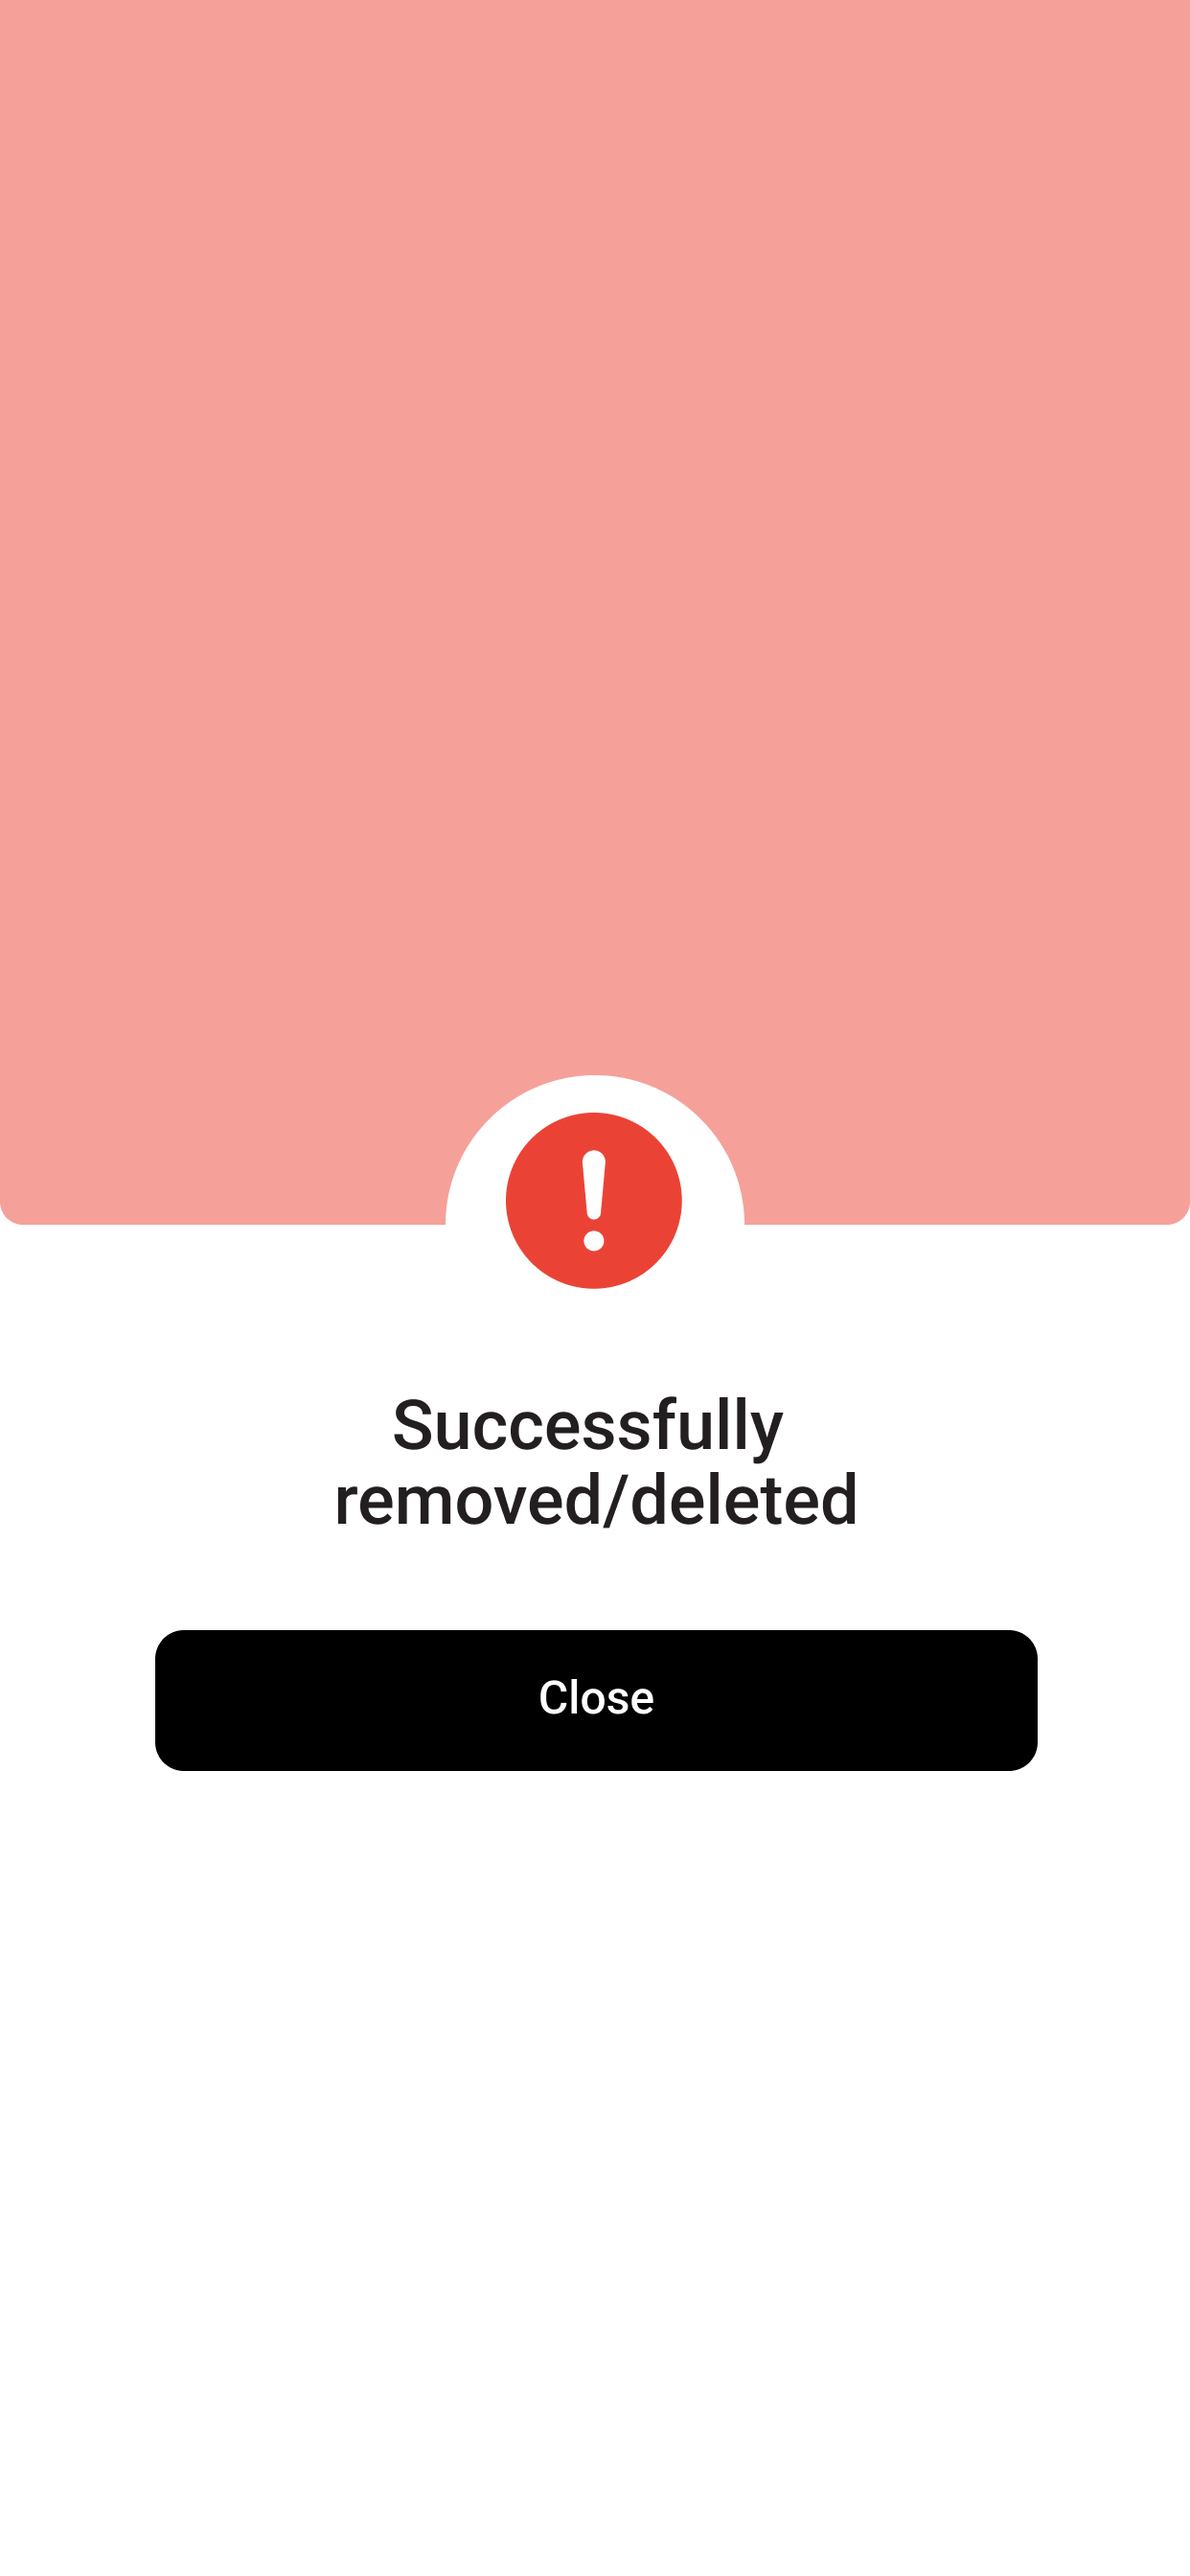
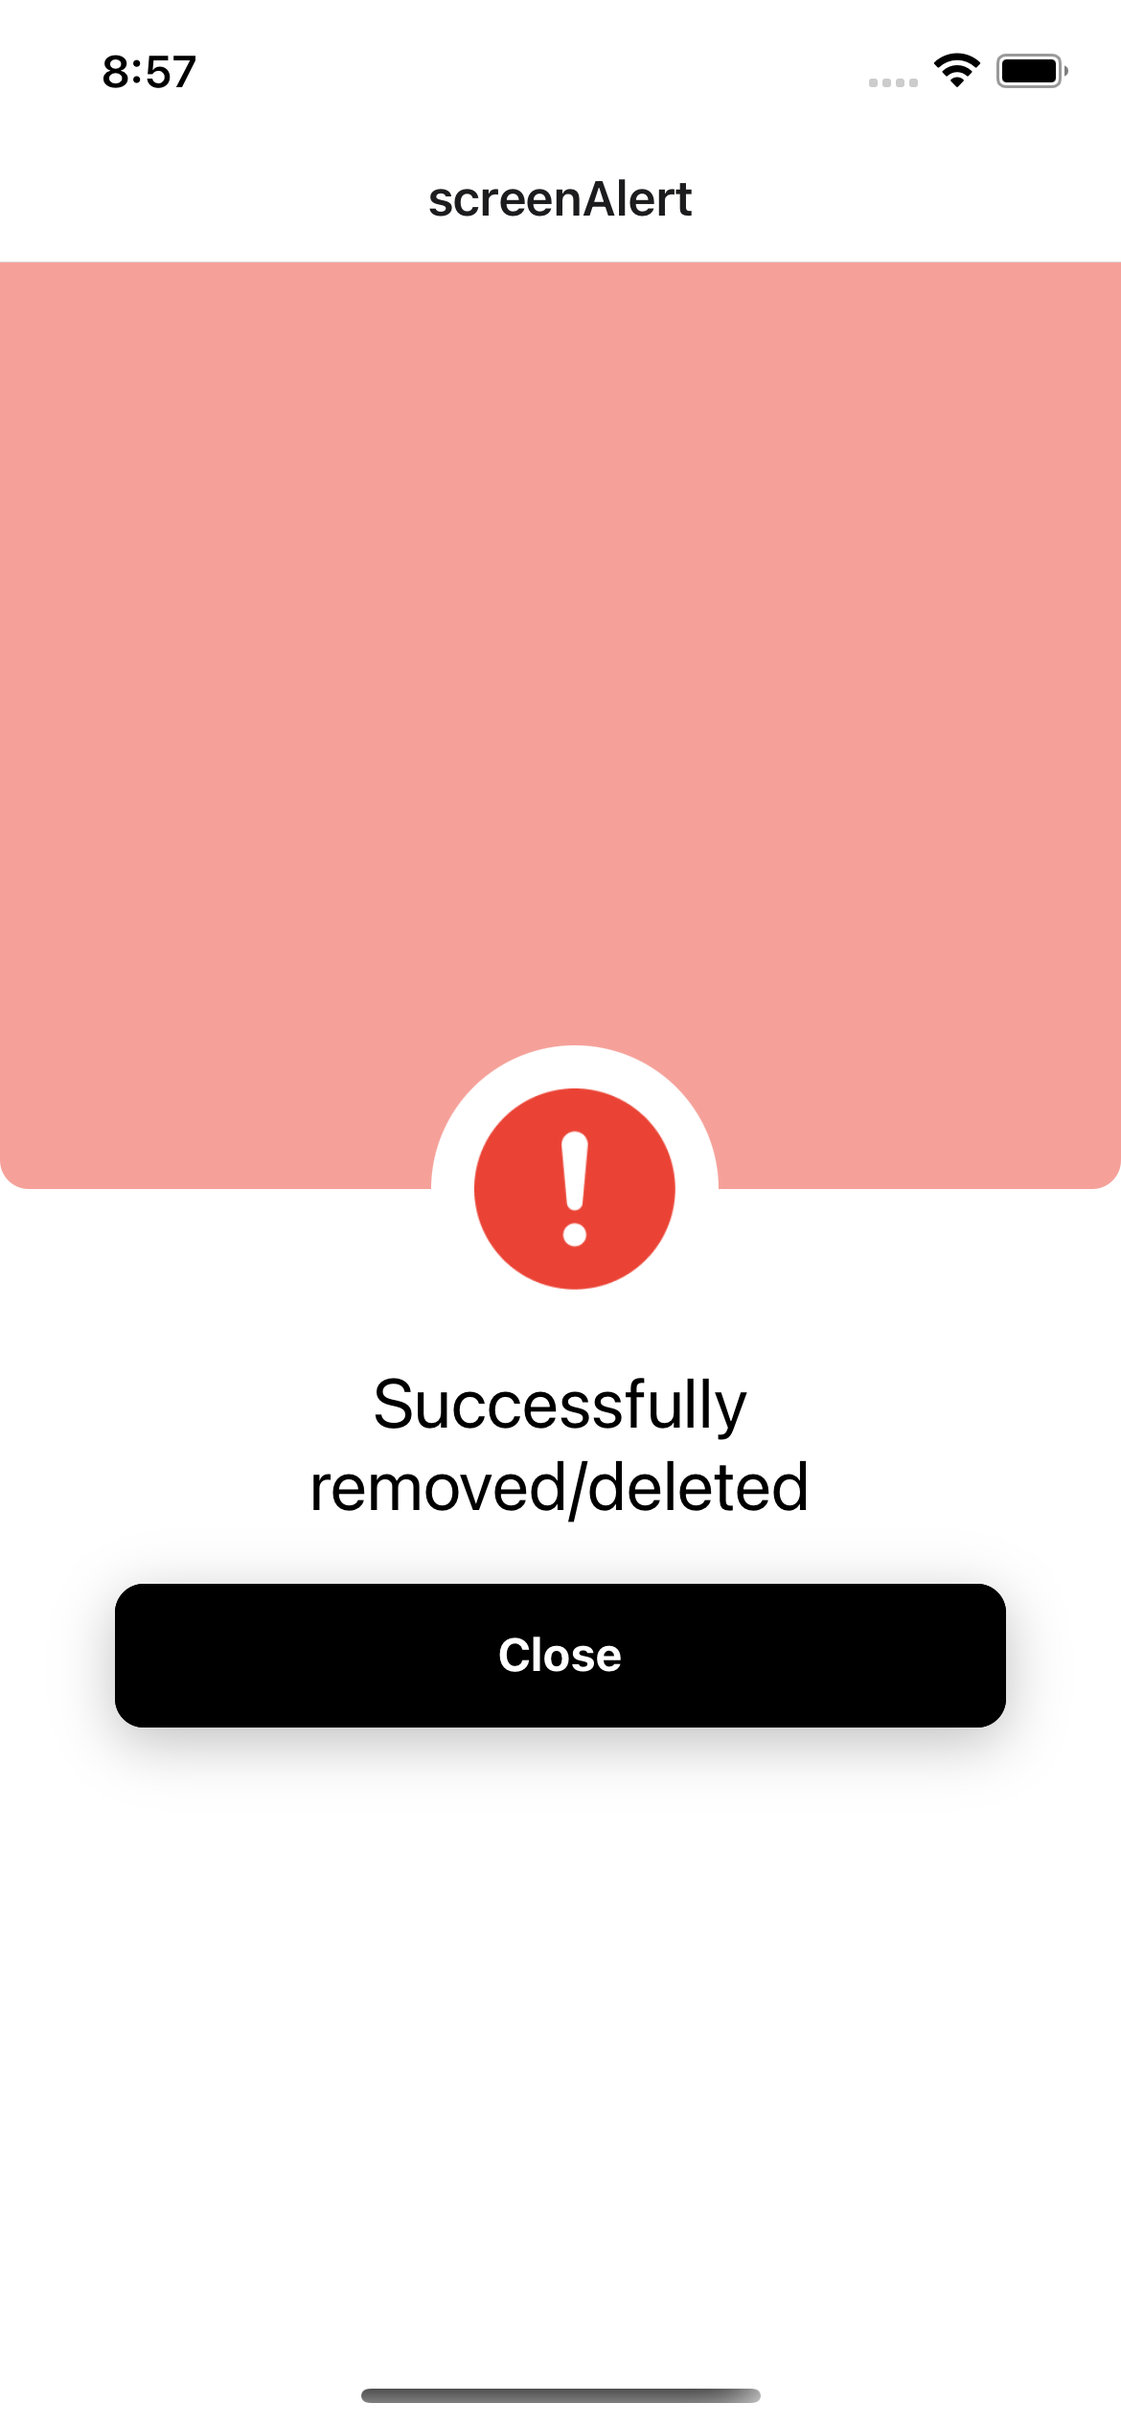
alert screen added

Changed region(s): [[0.0, 0.4056, 1.0, 0.7488], [0.0, 0.0, 1.0, 0.1248], [0.3385, 0.9672, 0.6769, 0.9984]]

diff --git a/screens/screen-alert/index.js b/screens/screen-alert/index.js
@@ -1,14 +1,21 @@
 import React from "react";
-import {
-  Text,
-  View,
-  StyleSheet
-} from "react-native";
+import { Text, View, StyleSheet, Image, Pressable } from "react-native";
 
 const Alert = () => {
   return (
     <View style={styles.container}>
-      <Text style={styles.heading}>Alert</Text>
+      <View style={styles.upper}>
+        <View style={styles.iconContainer}>
+          <Image
+            source={require("./assets/alertIcon.png")}
+            style={styles.icon}
+          />
+        </View>
+      </View>
+      <View style={styles.lower}>
+        <Text style={styles.heading}>Successfully{"\n"}removed/deleted</Text>
+        <Button buttonText="Close" style={styles.button} />
+      </View>
     </View>
   );
 };
@@ -17,9 +24,104 @@ const styles = StyleSheet.create({
     flex: 1,
     backgroundColor: "#fff"
   },
+  upper: {
+    flex: 3,
+    backgroundColor: "#F5A19A",
+    borderBottomLeftRadius: 10,
+    borderBottomRightRadius: 10
+  },
+  lower: {
+    flex: 4
+  },
+  iconContainer: {
+    width: 100,
+    height: 100,
+    backgroundColor: "#fff",
+    borderRadius: 50,
+    justifyContent: "center",
+    alignItems: "center",
+    position: "absolute",
+    bottom: -50,
+    left: 150
+  },
+  icon: {
+    width: 70,
+    height: 70
+  },
   heading: {
-    fontSize: 20
+    fontSize: 24,
+    textAlign: "center",
+    alignSelf: "center",
+    marginTop: 60
+  },
+  button: {
+    marginTop: 20,
+    marginHorizontal: 40
   }
 });
 
 export default Alert;
+
+const Button = params => {
+  const backgroundColor = params.color || "#000";
+  const textColor = params.textColor || "#fff";
+  const btnStyle = {
+    backgroundColor: backgroundColor,
+    borderColor: params.outlineColor || backgroundColor,
+    borderWidth: 1
+  };
+  const btnText = {
+    color: textColor
+  };
+  return (
+    <View style={[buttonStyles.btnContainer, params.style]}>
+      <View style={!params.hideShadow ? buttonStyles.shadowContainer : null}>
+        <Pressable
+          style={[buttonStyles.btn, btnStyle]}
+          onPress={params.onPress}>
+          <Text style={[buttonStyles.btnText, btnText]}>
+            {params.buttonText}
+          </Text>
+          <View style={styles.childrenContainer}>{params.children}</View>
+        </Pressable>
+      </View>
+    </View>
+  );
+};
+
+const buttonStyles = StyleSheet.create({
+  btnContainer: {
+    justifyContent: "center"
+  },
+  shadowContainer: {
+    shadowColor: "rgba(0, 0, 0, 0.5)",
+    shadowOffset: {
+      width: 0,
+      height: 5
+    },
+    shadowOpacity: 0.5,
+    shadowRadius: 10,
+    elevation: 10,
+    backgroundColor: "#fff",
+    borderRadius: 10
+  },
+  btn: {
+    height: 50,
+    padding: 10,
+    paddingHorizontal: 25,
+    borderRadius: 10,
+    justifyContent: "center",
+    alignItems: "center",
+
+    flexDirection: "row"
+  },
+  btnText: {
+    color: "#fff",
+    fontSize: 16,
+    fontWeight: "bold"
+  },
+  childrenContainer: {
+    justifyContent: "center",
+    alignItems: "center"
+  }
+});
